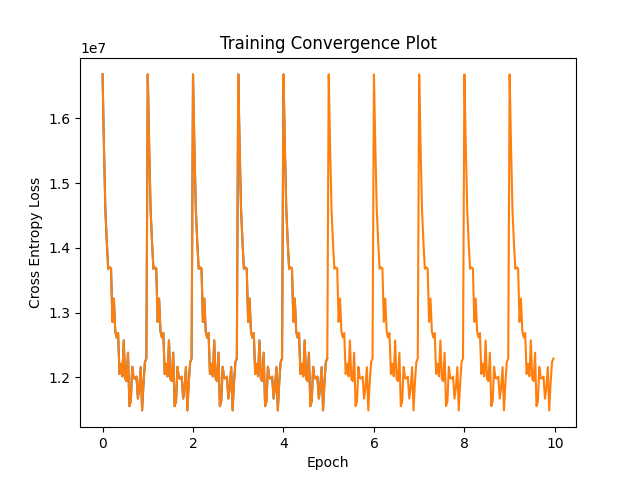
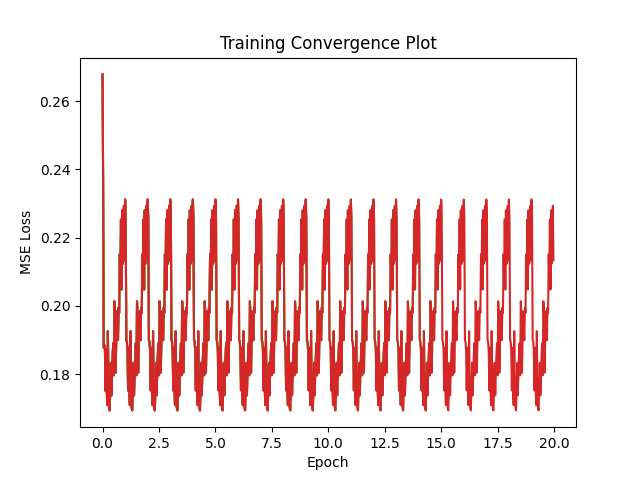
changed loss axis. Reduced window sliding to 3

diff --git a/code/stage_4_code/Method_Generation.py b/code/stage_4_code/Method_Generation.py
@@ -14,8 +14,8 @@ class Method_Generation(method, nn.Module):
     device = torch.device("cuda:0" if torch.cuda.is_available() else "cpu")
     load_model = False
 
-    max_epoch = 100
-    learning_rate = 1e-3
+    max_epoch = 20
+    learning_rate = 1e-2
     batch_size = 541 # must be factor of 1623 (1, 3, 541, 1623)
     embed_dim = 128
     hidden_size = 256
@@ -35,68 +35,49 @@ class Method_Generation(method, nn.Module):
         self.emb = nn.Embedding(num_embeddings=len(self.word_map), 
                     embedding_dim=self.embed_dim).to(self.device)
         
-        self.rnn = nn.RNN(input_size=self.embed_dim, hidden_size=self.hidden_size, num_layers=self.num_layers, dropout=0.2, batch_first=True).to(self.device)
-        # torch.nn.init.xavier_uniform_(self.rnn.weight_ih_l0)
-        # torch.nn.init.xavier_uniform_(self.rnn.weight_hh_l0)
-        # torch.nn.init.zeros_(self.rnn.bias_ih_l0)
-        # torch.nn.init.zeros_(self.rnn.bias_hh_l0)
+        self.rnn = nn.GRU(input_size=self.embed_dim, hidden_size=self.hidden_size, num_layers=self.num_layers, batch_first=True).to(self.device)
 
-        # self.dropout = nn.Dropout(0.2)
+        self.dropout = nn.Dropout(0.4)
         self.fc = nn.Linear(self.hidden_size, len(self.word_map)).to(self.device)
 
         # self.act = nn.ReLU().to(self.device)
 
     def forward(self, x, prev_hidden):
         x = self.emb(x)
-        # print(x)
-        # exit()
+        # print(x.shape)
+        # print(prev_hidden.shape)
         out, hidden = self.rnn(x, prev_hidden)
-        # print(hidden)
-        # print(hidden.shape)
-        # exit()
         # hidden = hidden[-1, :, :]
 
-        # issue is that we're getting predictions for 5 words which are from our sequence length; we want only one prediction value...
-        # find max probability of the next word for the LAST WORD
         # out = self.dropout(out)
         out = self.fc(out)
         # print(out)
         # print(out.shape) # 541: Batch Size; 5: sequence length; 4624: vocab size from num_embeddings
-        # exit()
         
         # **Apply softmax to obtain probabilities**
         probs = torch.nn.functional.softmax(out, dim=-1)
-        # print("Probs")
-        # print(probs)
-        # print(probs.shape)
-        next_word_probs = torch.index_select(probs, dim=1, index=torch.tensor([probs.size(1) - 1]))
-        # print("Last Array in Probs")
-        # print(next_word_probs)
-        # print(next_word_probs.shape)
-        # print(probs.size(0))
-        # print(probs.size(1))
-        # probs.reshape()
         
+        next_word_probs = torch.index_select(probs, dim=1, index=torch.tensor([probs.size(1) - 1]))
+                
         pred_indices = torch.argmax(next_word_probs, dim=-1)  # Take the index of the word with the highest probability
-        # print(pred_indices)
-        # print(pred_indices.shape)
-        # exit()
         
         pred_indices = pred_indices.float()
-
-        # pred_indices = torch.FloatTensor(pred_indices.unsqueeze(1))
         
         return pred_indices, hidden
 
     def train(self, X, y):
-        optimizer = torch.optim.Adam(self.parameters(), lr=self.learning_rate, weight_decay=0.0003)
-        loss_function = nn.SmoothL1Loss().to(self.device)
+        optimizer = torch.optim.Adam(self.parameters(), lr=self.learning_rate)
+        loss_function = nn.MSELoss().to(self.device)
         accuracy_evaluator = Evaluate_Accuracy('training evaluator', '')
         losses = []
         epochs = []  # Use epochs instead of batches for x-axis
         num_batches = len(X) // self.batch_size    # floor division
+        clip = 2
         
         hidden = torch.zeros(self.num_layers, self.batch_size, self.hidden_size).to(self.device)
+
+        # hidden = (torch.zeros(self.num_layers, self.batch_size, self.hidden_size).to(self.device),
+        #     torch.zeros(self.num_layers, self.batch_size, self.hidden_size).to(self.device))
 
         for epoch in range(self.max_epoch):
             for batch_idx in range(num_batches):
@@ -110,7 +91,7 @@ class Method_Generation(method, nn.Module):
                 # print("x batch shape: ", X_batch.shape)
                 # exit()
                 optimizer.zero_grad()
-                y_pred, hidden = self.forward(X_batch.to(self.device), hidden.to(self.device))
+                y_pred, hidden = self.forward(X_batch.to(self.device), hidden)
 
                 # normalization of data
                 y_pred = y_pred / len(self.word_map)
@@ -127,9 +108,10 @@ class Method_Generation(method, nn.Module):
                 # optimizer.zero_grad()
                 train_loss.backward()
 
-                torch_utils.clip_grad_norm_(self.parameters(), max_norm=0.25)
                 
                 optimizer.step()
+                torch_utils.clip_grad_norm_(self.parameters(), clip)
+
 
                 accuracy_evaluator.data = {'true_y': y_batch, 'pred_y': y_pred}
                 mse = accuracy_evaluator.mse_evaluate()
@@ -142,7 +124,7 @@ class Method_Generation(method, nn.Module):
             if (epoch + 1) % 5 == 0:
                 plt.plot(epochs, losses, label='Training Loss')
                 plt.xlabel('Epoch')
-                plt.ylabel('Cross Entropy Loss')
+                plt.ylabel('MSE Loss')
                 plt.title('Training Convergence Plot')
                 # plt.legend()
                 plt.savefig(f"./result/stage_4_result/train_text_generation.png")
@@ -153,7 +135,7 @@ class Method_Generation(method, nn.Module):
             hidden = hidden.detach()
 
     def load_and_test(self, X):
-        model_path = "saved_models/text_generation_25.pt"
+        model_path = "saved_models/text_generation_50.pt"
         self.load_state_dict(torch.load(model_path))
         print("loaded in model")
         
@@ -219,7 +201,7 @@ class Method_Generation(method, nn.Module):
         # print generated joke
         print(result)
         result_str = ""
-        for i in range(5):
+        for i in range(3):
             result_str += str(tokens[i]) + " "
             
         for i in range(len(result)):
@@ -232,7 +214,7 @@ class Method_Generation(method, nn.Module):
 
     def run(self):
         print('method running...')
-        input = "What did the dog say?"
+        input = "What did the?"
         if not self.load_model:
             print('--start training...')
             self.train(self.data['train']['X'], self.data['train']['y'])

diff --git a/code/stage_4_code/Dataset_Loader.py b/code/stage_4_code/Dataset_Loader.py
@@ -89,7 +89,7 @@ class Dataset_Loader(dataset):
         self.word_map["STOP"] = 0
         # df = pd.DataFrame(columns=['id', 'token'])
         # df = pd.concat([df, pd.DataFrame([{'id': 0, 'token': "STOP"}])], ignore_index=True)
-        sliding_window = 5       
+        sliding_window = 3       
         f = open(self.dataset_source_folder_path + file_name, 'r')
         next(f) # ignore line 1
         for line in f:
